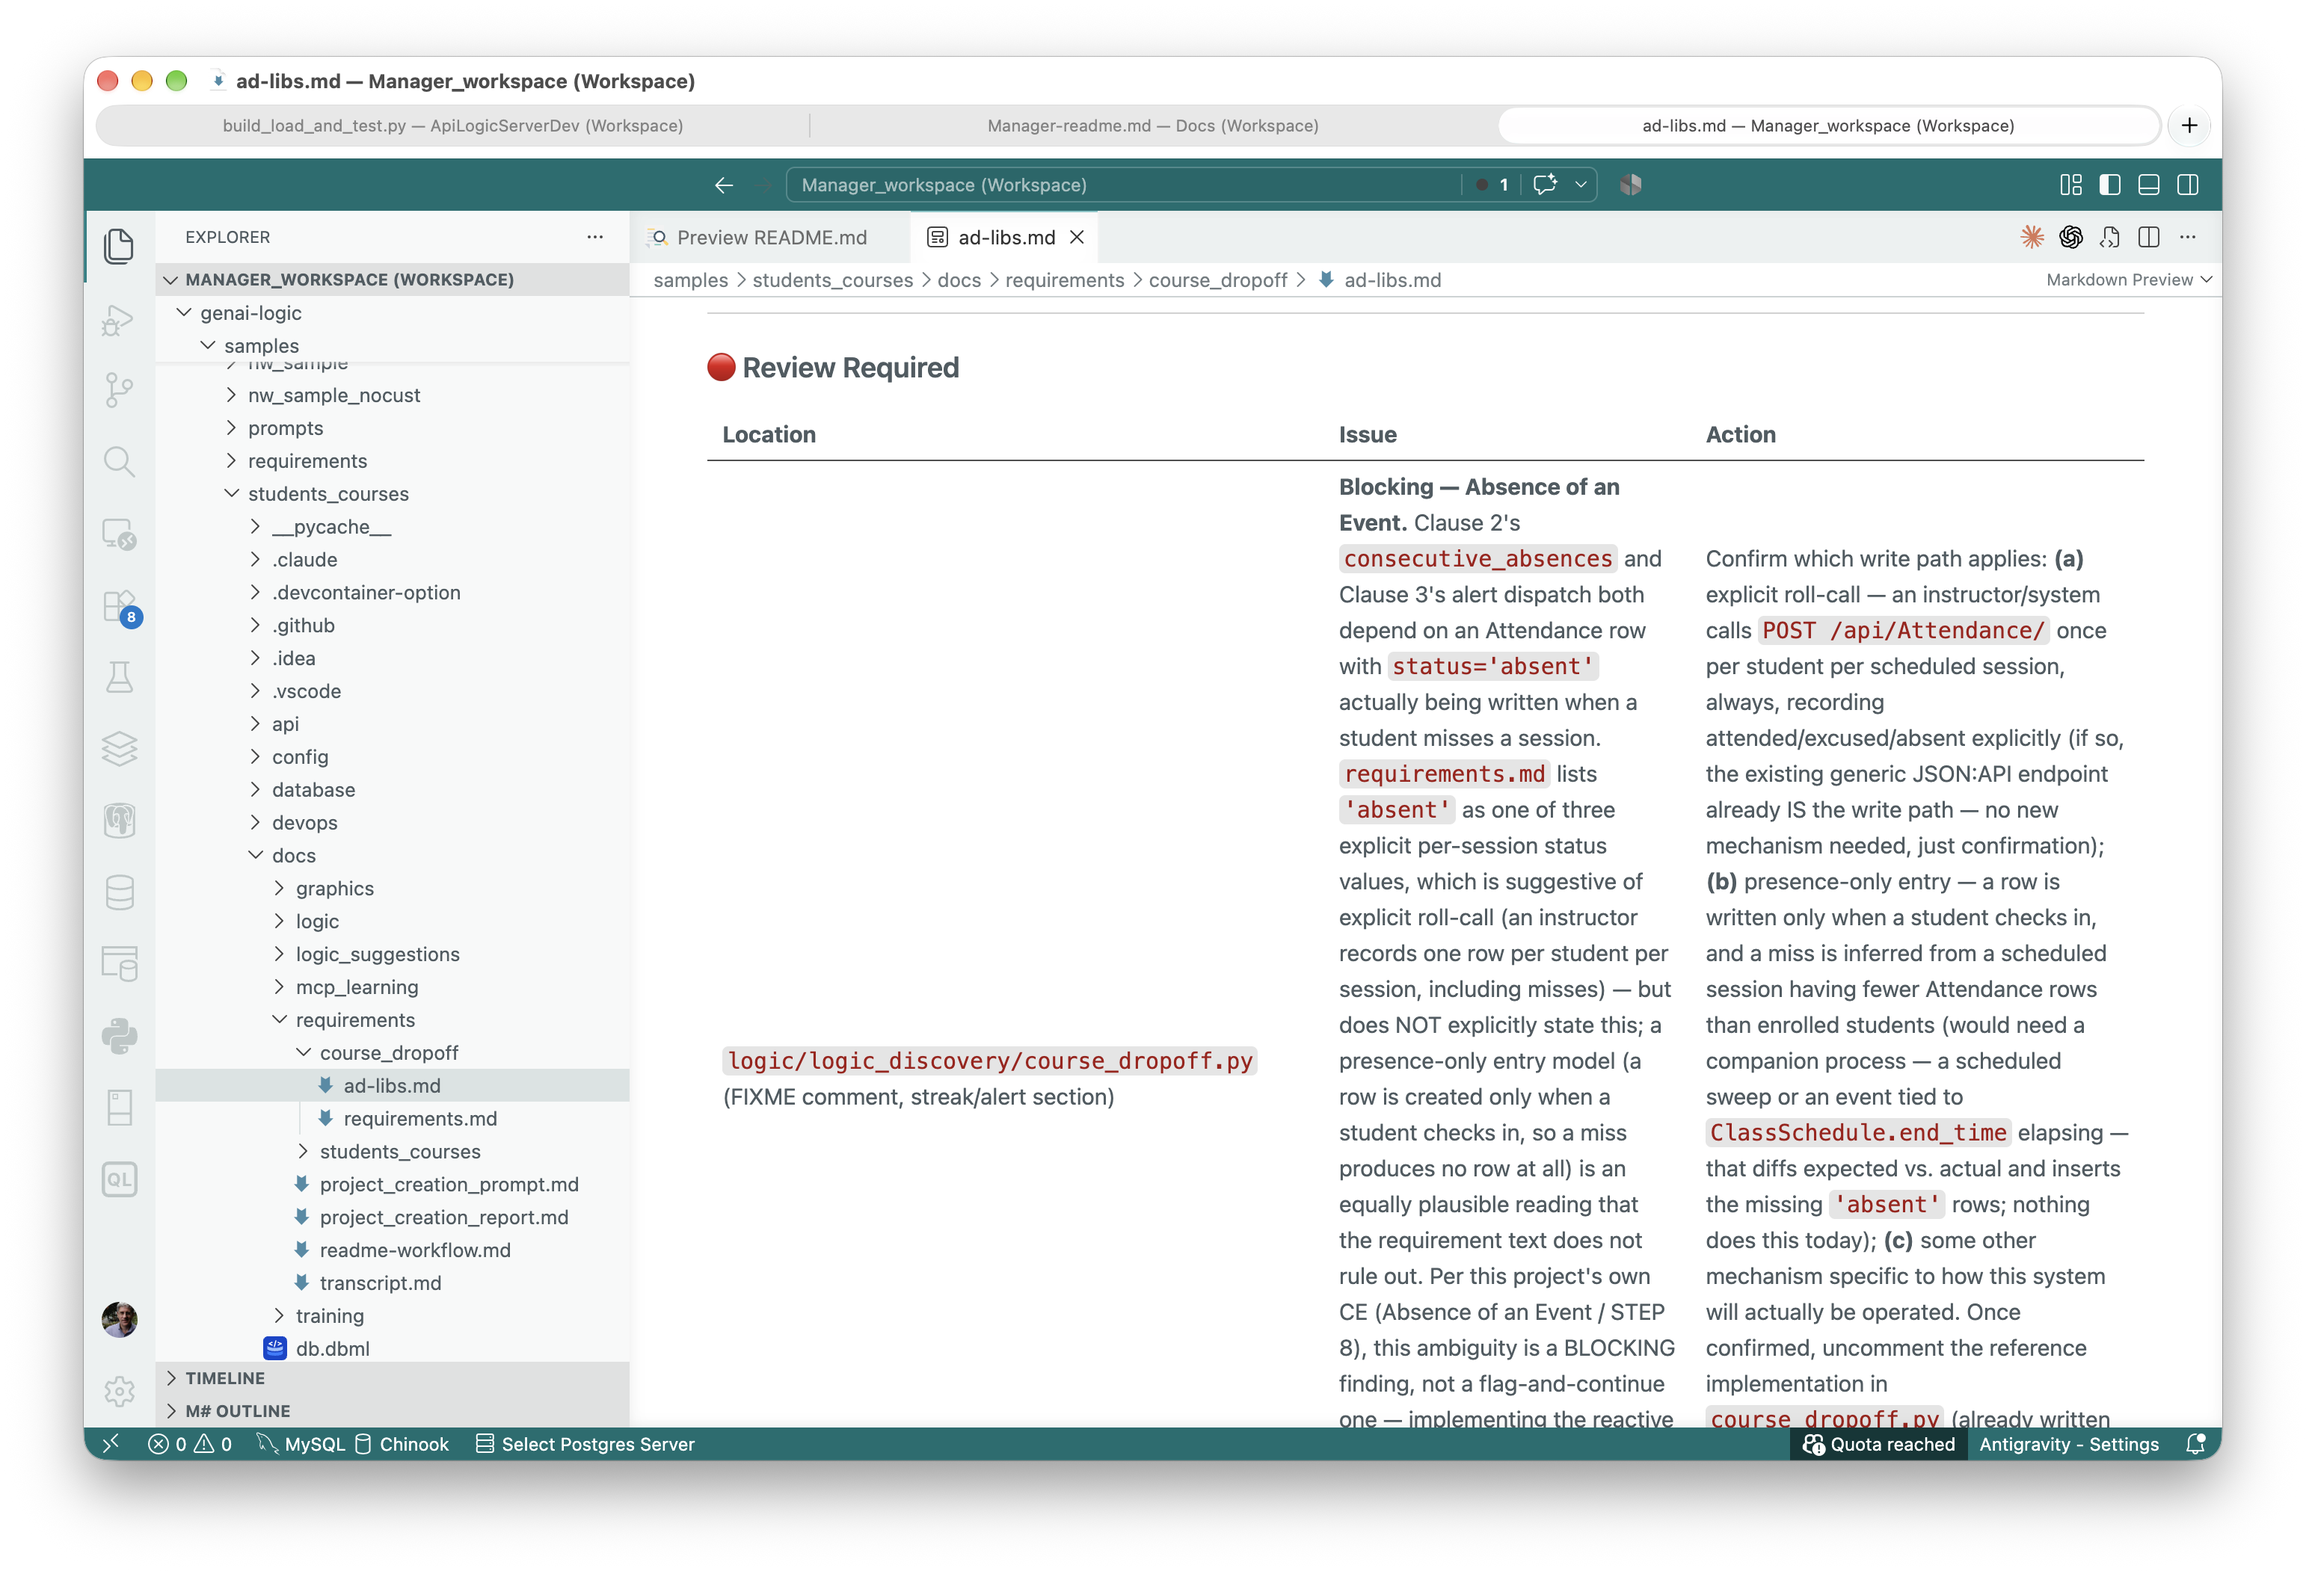
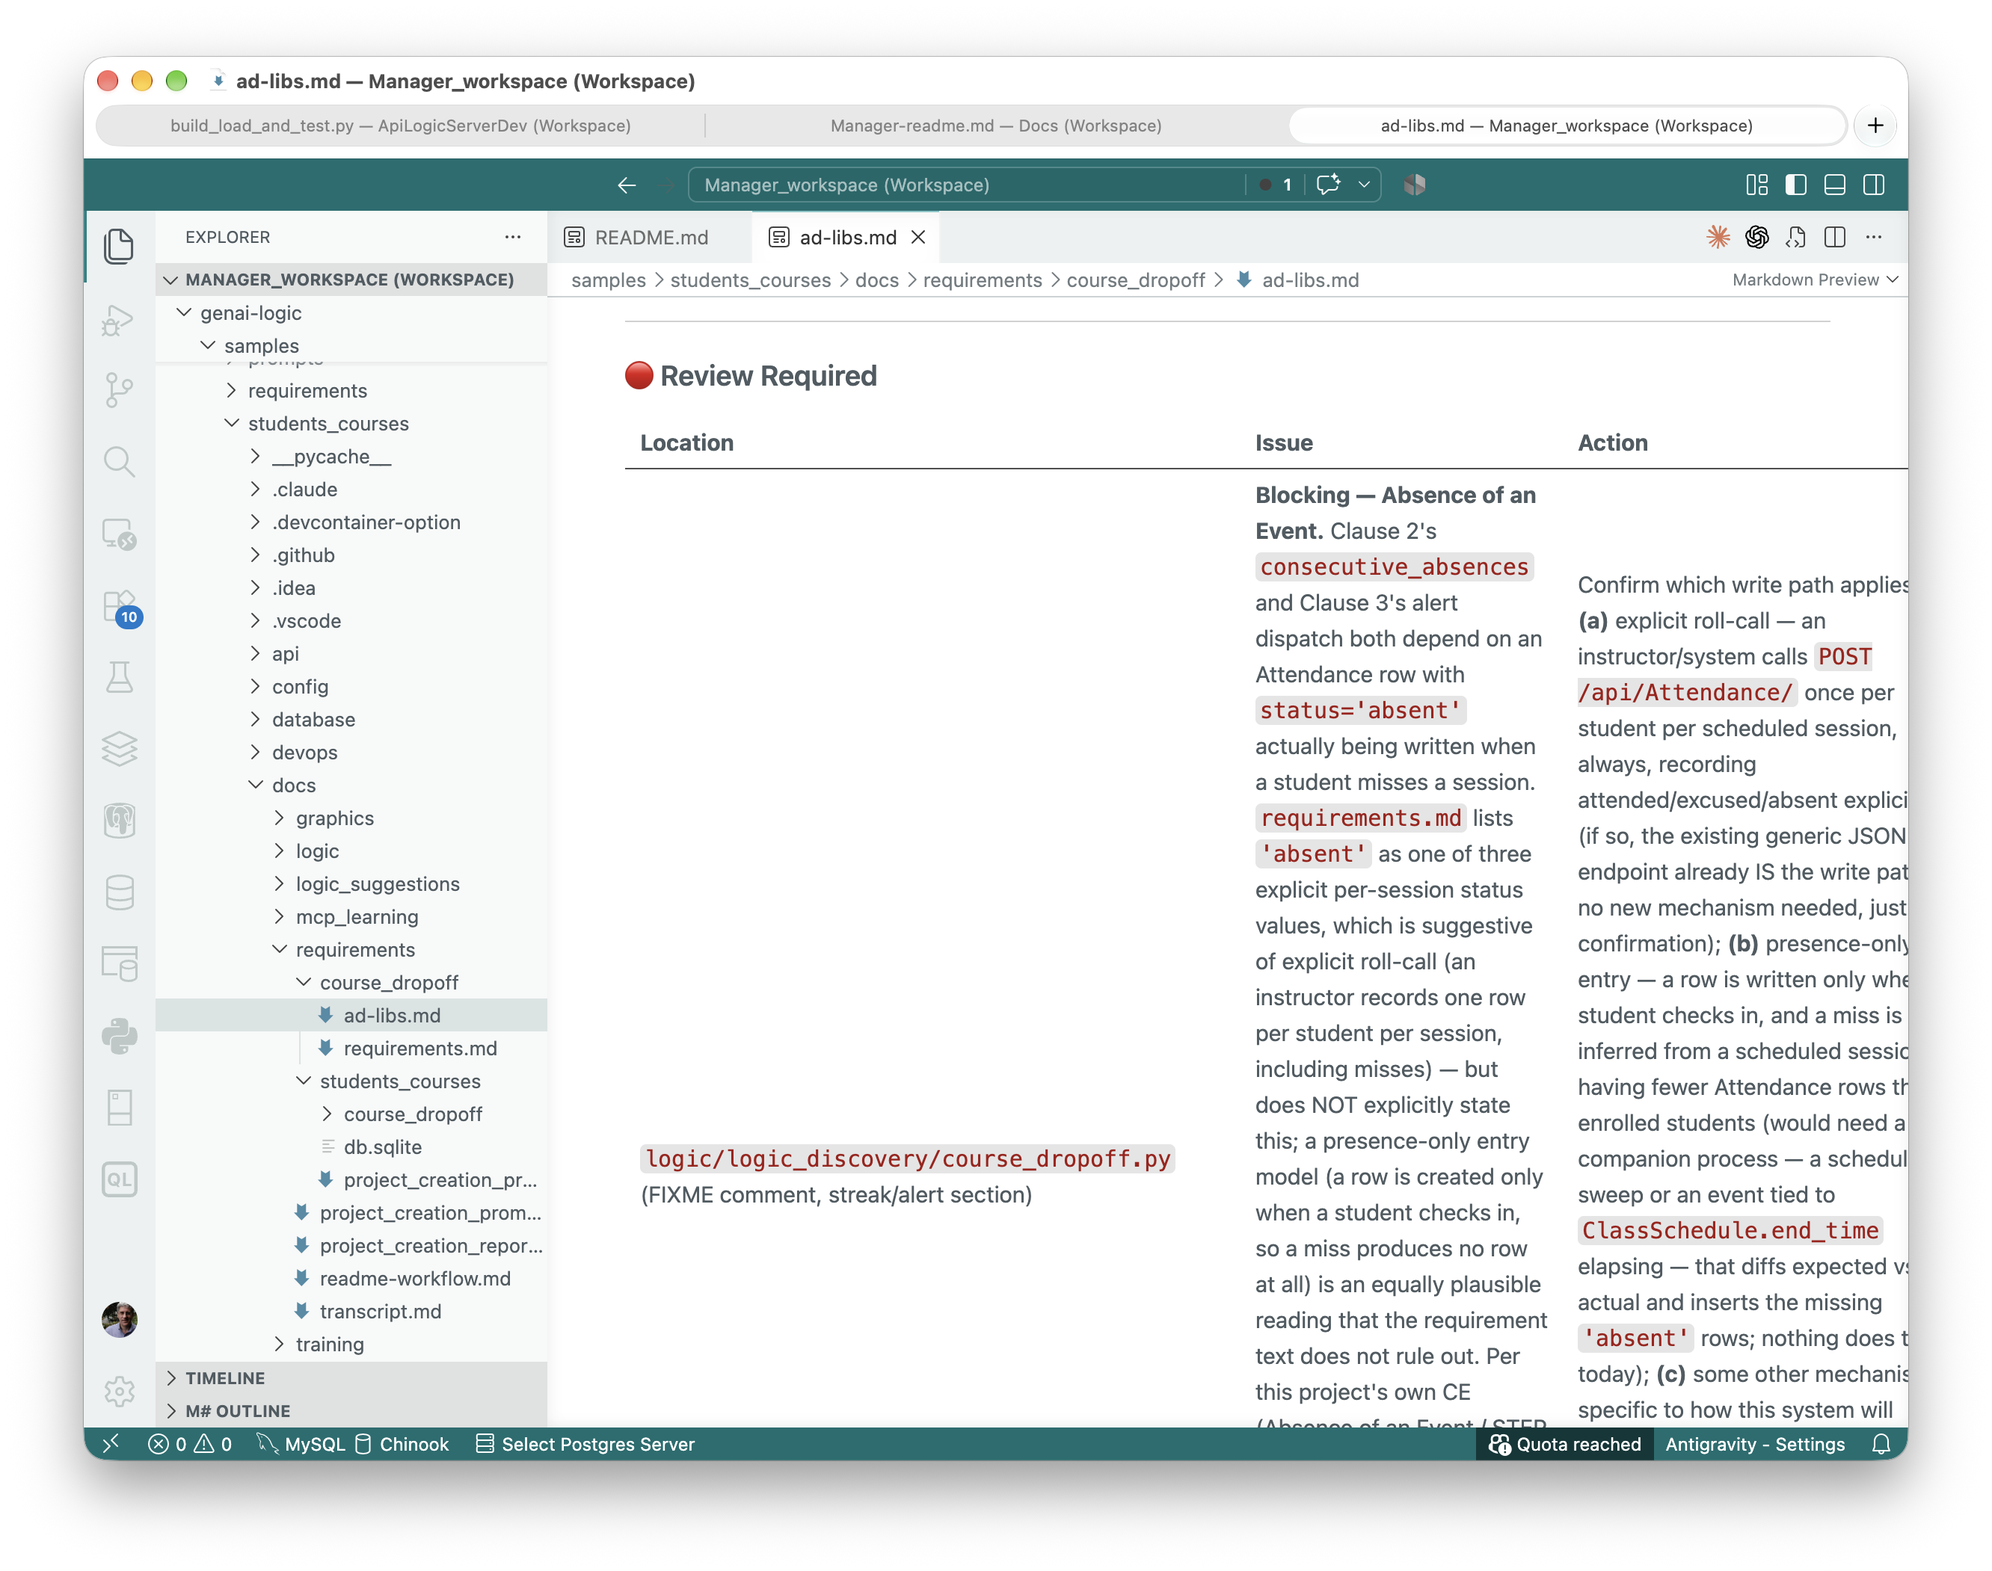
readme/ad-lib report

diff --git a/docs/Manager-readme.md b/docs/Manager-readme.md
@@ -594,7 +594,7 @@ Every requirement leaves things unsaid — the AI has to resolve that ambiguity 
 
 **For anything with no safe default, it stops outright** — trained by Context Engineering to do exactly that, rather than guess and move on. No code written for that piece, a `FIXME` left in its place, and the real options listed here for you to decide. That's the comforting part: not just "the AI made a call, here it is," but "the AI knew this one wasn't its call to make."
 
-You review the judgment calls, not the code. [Full report](samples/basic_demo_logic_gov/docs/requirements/ad-libs.md).
+You review the judgment calls, not the code. [Full report](samples/students_courses/docs/requirements/course_dropoff/ad-libs.md).
 
 </details>
 
